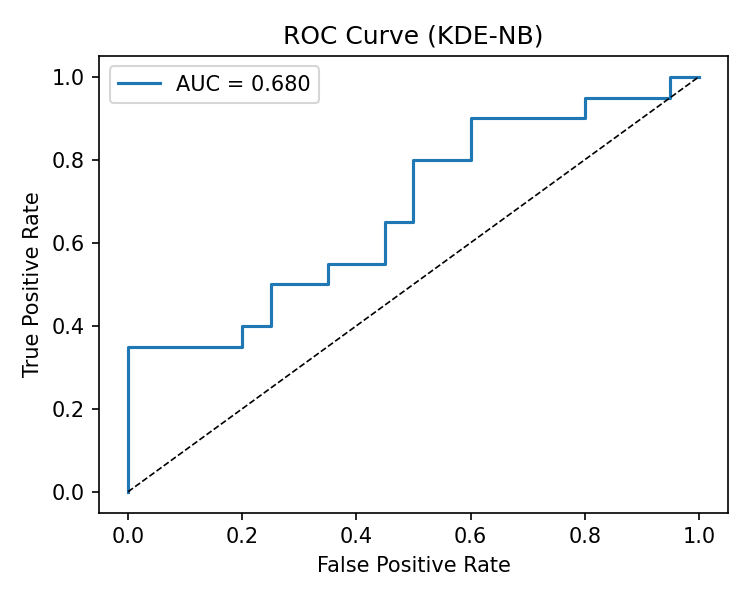
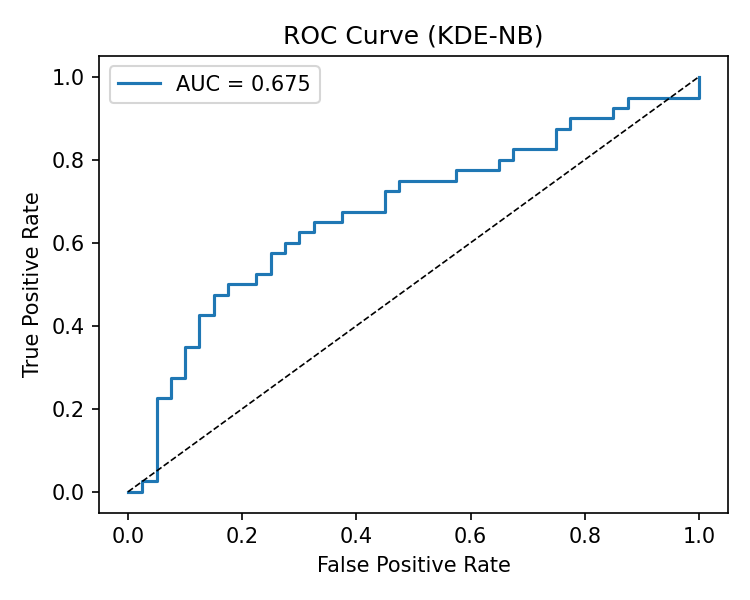
Update results plots/metrics and CLAUDE.md commit standards

diff --git a/CLAUDE.md b/CLAUDE.md
@@ -80,6 +80,10 @@ Run a notebook for analysis:
 jupyter notebook notebooks/
 ```
 
+## Git & Commit Standards
+
+- Do **not** add `Co-Authored-By: Claude` or any Claude authorship to commit messages.
+
 ## Evaluation Targets
 
 - Primary: Accuracy, Precision, Recall, F1
